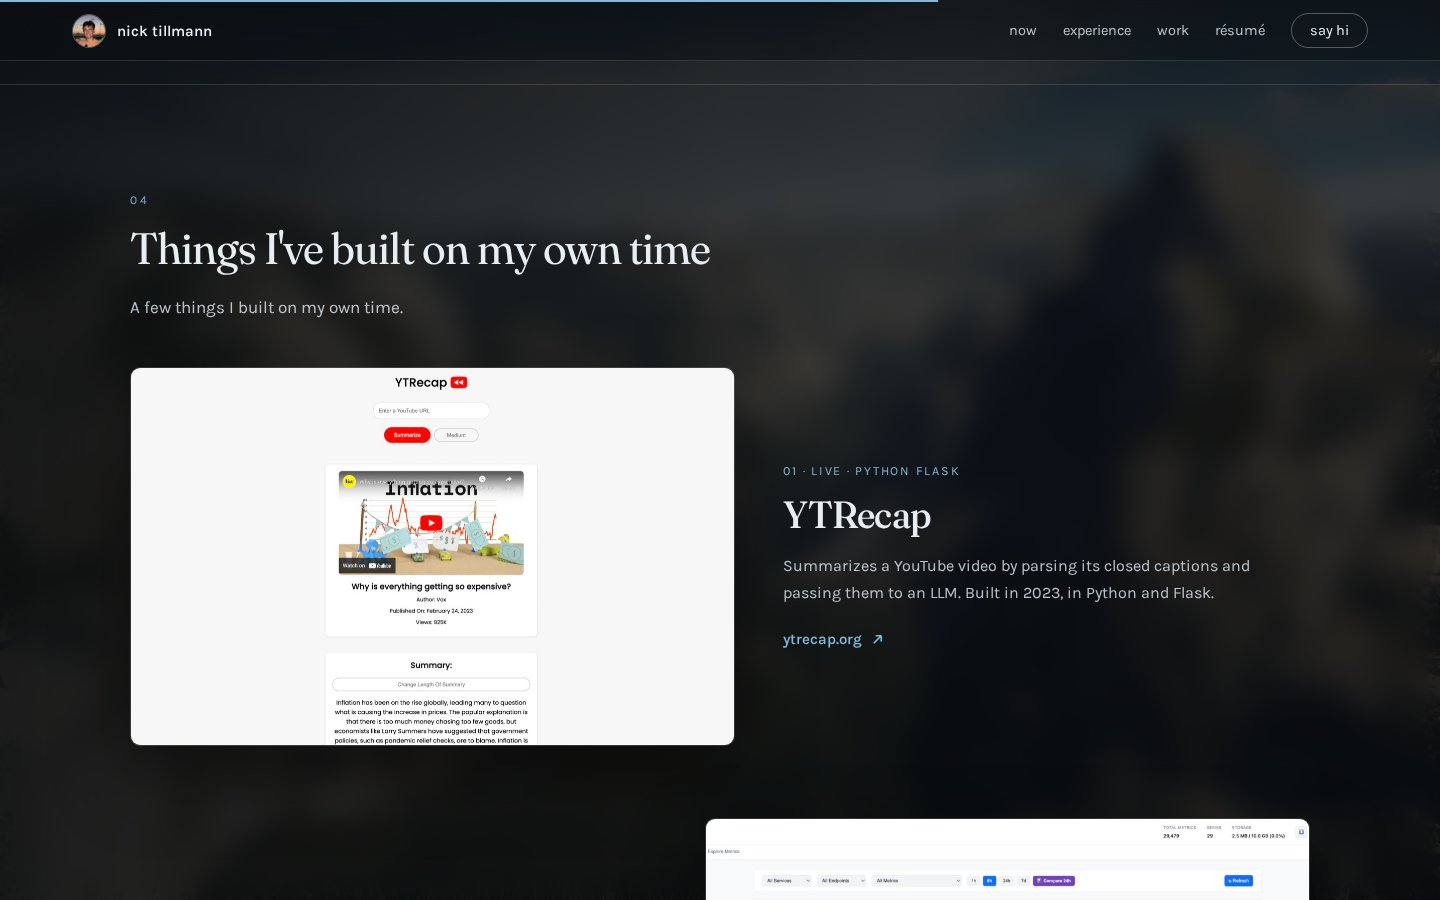
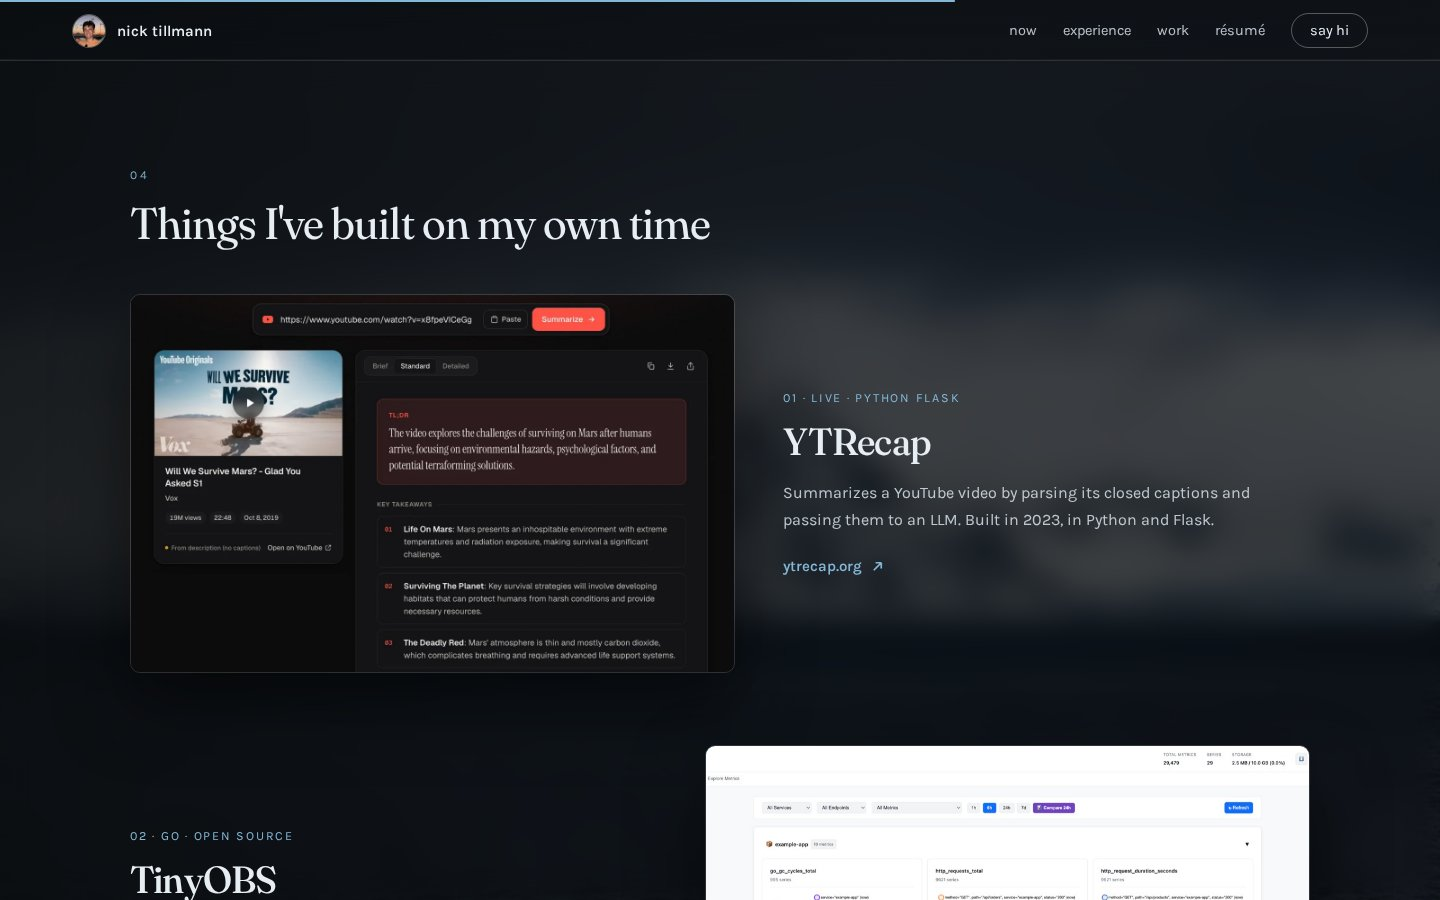
Update YTRecap preview to the new design (#18)
Dark results view, cropped to the card's 16:10 frame. Also refreshes the README's projects screenshot.

diff --git a/redesign/index.html b/redesign/index.html
@@ -276,7 +276,7 @@
 
       <article class="proj">
         <a class="proj__shot" href="https://ytrecap.org" target="_blank" rel="noopener">
-          <img src="img/proj-ytlight.jpg" alt="YTRecap interface" loading="lazy">
+          <img src="img/proj-ytrecap.webp" alt="YTRecap summarizing a Vox video: a TL;DR and numbered key takeaways" loading="lazy">
         </a>
         <div class="proj__body">
           <p class="proj__kicker">01 · live · python flask</p>
